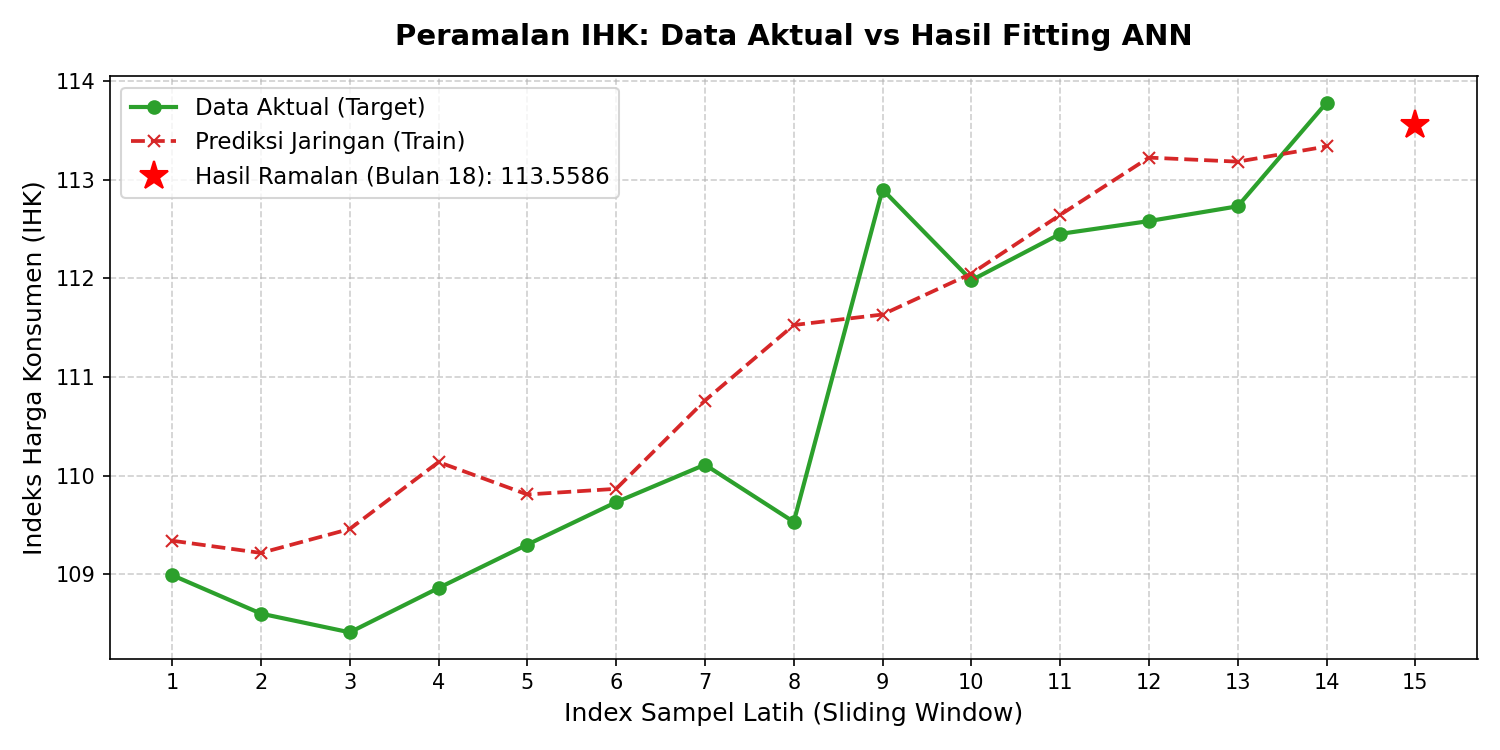
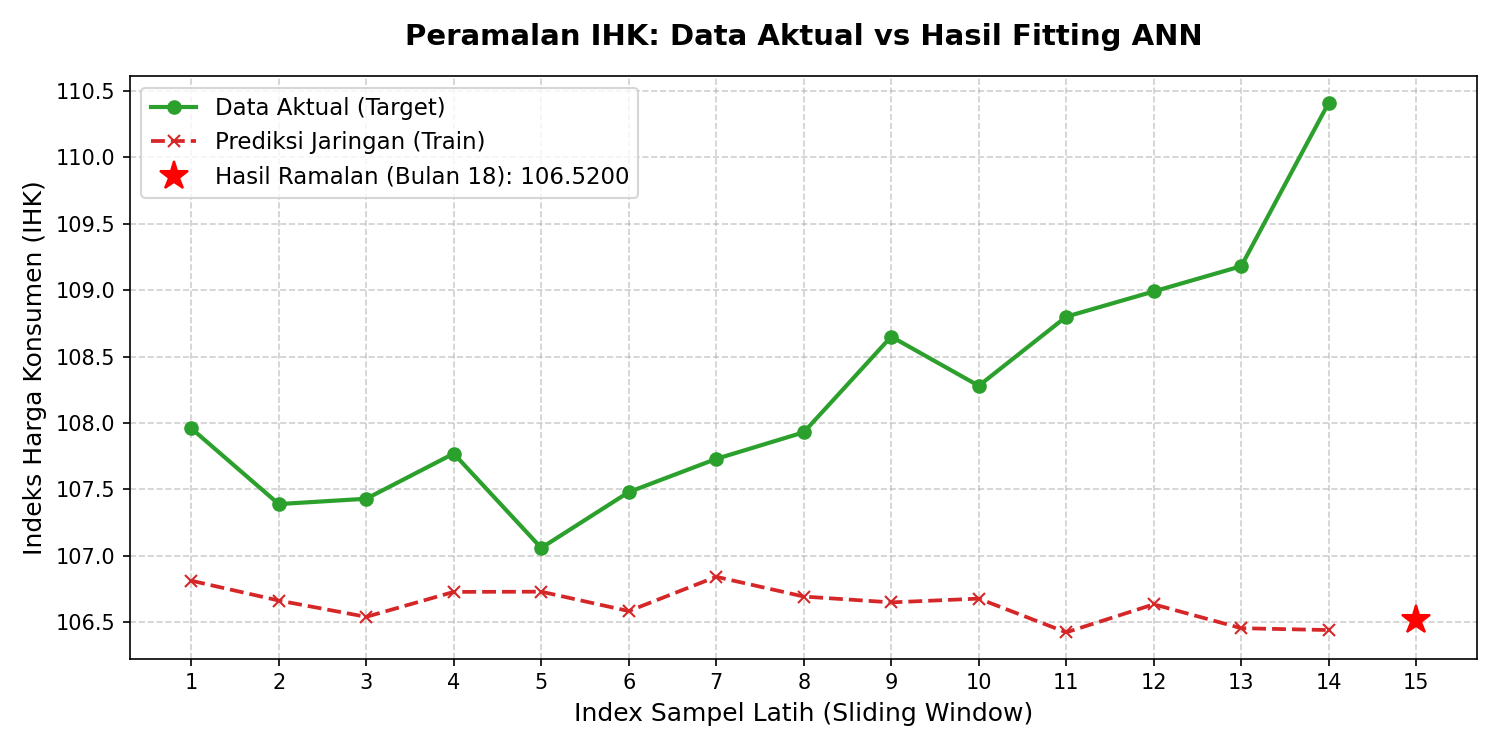
update readme

diff --git a/generate_results.py b/generate_results.py
@@ -7,7 +7,7 @@ import os
 async def main():
     url = "http://localhost:8000/api/forecast"
     payload = {
-        "kota": "Kota Banda Aceh",
+        "kota": "Kota Metro",
         "lag": 3,
         "epochs": 150,
         "batch_size": 2,

diff --git a/result.md b/result.md
@@ -1,6 +1,6 @@
 # Hasil Pelatihan dan Peramalan Artificial Neural Network (ANN)
 
-Berikut adalah ringkasan hasil pengujian model Jaringan Saraf Tiruan (ANN) yang dilatih menggunakan data historis 17 bulan untuk **KOTA BANDA ACEH**.
+Berikut adalah ringkasan hasil pengujian model Jaringan Saraf Tiruan (ANN) yang dilatih menggunakan data historis 17 bulan untuk **KOTA METRO**.
 
 ---
 
@@ -8,8 +8,8 @@ Berikut adalah ringkasan hasil pengujian model Jaringan Saraf Tiruan (ANN) yang 
 
 | Variabel | Nilai Ramalan | Nilai Terakhir (Mei 2026) | Trend / Keterangan |
 | :--- | :---: | :---: | :--- |
-| **Inflasi** | `0.1410%` | `0.9300%` | Turun |
-| **IHK** | `113.5586` | `113.7800` | Turun |
+| **Inflasi** | `-0.7738%` | `1.1300%` | Turun |
+| **IHK** | `106.5200` | `110.4100` | Turun |
 
 ---
 
@@ -19,24 +19,24 @@ Tabel di bawah ini menampilkan 17 data masuk (input historis) yang digunakan unt
 
 | Bulan Ke- | Periode | Data Masuk: Inflasi | Data Masuk: IHK | Status Data |
 | :---: | :---: | :---: | :---: | :--- |
-| 1 | Jan 2025 | `-0.4700%` | `105.9100` | Historis (YoY) |
-| 2 | Feb 2025 | `-0.4900%` | `105.3900` | Historis (YoY) |
-| 3 | Mar 2025 | `1.5500%` | `107.0200` | Historis (YoY) |
-| 4 | Apr 2025 | `1.8400%` | `108.9900` | Historis (YoY) |
-| 5 | Mei 2025 | `-0.3600%` | `108.6000` | Historis (YoY) |
-| 6 | Jun 2025 | `-0.1700%` | `108.4100` | Historis (YoY) |
-| 7 | Jul 2025 | `0.4200%` | `108.8600` | Historis (YoY) |
-| 8 | Ags 2025 | `0.4000%` | `109.3000` | Historis (YoY) |
-| 9 | Sep 2025 | `0.3900%` | `109.7300` | Historis (YoY) |
-| 10 | Okt 2025 | `0.3500%` | `110.1100` | Historis (YoY) |
-| 11 | Nov 2025 | `-0.5300%` | `109.5300` | Historis (YoY) |
-| 12 | Des 2025 | `3.0800%` | `112.9000` | Historis (YoY) |
-| 13 | Jan 2026 | `-0.8100%` | `111.9800` | Historis (Berjalan) |
-| 14 | Feb 2026 | `0.4200%` | `112.4500` | Historis (Berjalan) |
-| 15 | Mar 2026 | `0.1200%` | `112.5800` | Historis (Berjalan) |
-| 16 | Apr 2026 | `0.1300%` | `112.7300` | Historis (Berjalan) |
-| 17 | Mei 2026 | `0.9300%` | `113.7800` | Historis (Berjalan) |
-| 18 | **Jun 2026** | **`0.1410%`** | **`113.5586`** | **Hasil Ramalan (ANN)** |
+| 1 | Jan 2025 | `-0.2800%` | `106.1300` | Historis (YoY) |
+| 2 | Feb 2025 | `-0.8900%` | `105.1900` | Historis (YoY) |
+| 3 | Mar 2025 | `1.9600%` | `107.2500` | Historis (YoY) |
+| 4 | Apr 2025 | `0.6600%` | `107.9600` | Historis (YoY) |
+| 5 | Mei 2025 | `-0.5300%` | `107.3900` | Historis (YoY) |
+| 6 | Jun 2025 | `0.0400%` | `107.4300` | Historis (YoY) |
+| 7 | Jul 2025 | `0.3200%` | `107.7700` | Historis (YoY) |
+| 8 | Ags 2025 | `-0.6600%` | `107.0600` | Historis (YoY) |
+| 9 | Sep 2025 | `0.3900%` | `107.4800` | Historis (YoY) |
+| 10 | Okt 2025 | `0.2300%` | `107.7300` | Historis (YoY) |
+| 11 | Nov 2025 | `0.1900%` | `107.9300` | Historis (YoY) |
+| 12 | Des 2025 | `0.6700%` | `108.6500` | Historis (YoY) |
+| 13 | Jan 2026 | `-0.3400%` | `108.2800` | Historis (Berjalan) |
+| 14 | Feb 2026 | `0.4800%` | `108.8000` | Historis (Berjalan) |
+| 15 | Mar 2026 | `0.1700%` | `108.9900` | Historis (Berjalan) |
+| 16 | Apr 2026 | `0.1700%` | `109.1800` | Historis (Berjalan) |
+| 17 | Mei 2026 | `1.1300%` | `110.4100` | Historis (Berjalan) |
+| 18 | **Jun 2026** | **`-0.7738%`** | **`106.5200`** | **Hasil Ramalan (ANN)** |
 
 
 ---
@@ -47,24 +47,24 @@ Tabel di bawah ini menampilkan data masuk historis (17 bulan) dan hasil peramala
 
 | Bulan Ke- | Periode | Makanan & Tembakau | Pakaian & Alas Kaki | Perumahan & Energi | Perlengkapan RT | Kesehatan |
 | :---: | :---: | :---: | :---: | :---: | :---: | :---: |
-| 1 | Jan 2025 | `2.7800%` | `0.1300%` | `-7.9500%` | `0.1700%` | `0.0000%` |
-| 2 | Feb 2025 | `-0.4700%` | `-0.9400%` | `-3.6600%` | `0.1600%` | `0.3000%` |
-| 3 | Mar 2025 | `0.6500%` | `0.6300%` | `7.0900%` | `-0.5000%` | `0.1600%` |
-| 4 | Apr 2025 | `1.7600%` | `0.7500%` | `5.3300%` | `-0.2000%` | `0.3900%` |
-| 5 | Mei 2025 | `-1.1200%` | `-0.1300%` | `0.1900%` | `-0.2100%` | `0.0000%` |
-| 6 | Jun 2025 | `-0.6000%` | `0.1300%` | `-0.0100%` | `0.4500%` | `-0.0200%` |
-| 7 | Jul 2025 | `1.2200%` | `3.2500%` | `0.0000%` | `-0.0300%` | `0.4200%` |
-| 8 | Ags 2025 | `1.5400%` | `-0.5700%` | `0.0000%` | `0.1000%` | `1.0100%` |
-| 9 | Sep 2025 | `0.8500%` | `-0.8700%` | `-0.0200%` | `0.0100%` | `0.9100%` |
-| 10 | Okt 2025 | `-0.4700%` | `0.1100%` | `0.0000%` | `0.1700%` | `0.0000%` |
-| 11 | Nov 2025 | `-1.6400%` | `-2.4100%` | `0.0000%` | `-0.3500%` | `0.7100%` |
-| 12 | Des 2025 | `7.0200%` | `-0.1000%` | `1.9500%` | `0.0100%` | `-0.2400%` |
-| 13 | Jan 2026 | `-2.8600%` | `-0.0200%` | `-1.7500%` | `0.0600%` | `0.4500%` |
-| 14 | Feb 2026 | `0.8600%` | `0.3800%` | `-0.4000%` | `-0.0100%` | `-0.0300%` |
-| 15 | Mar 2026 | `0.1600%` | `-2.9000%` | `0.0200%` | `-0.2000%` | `-0.0200%` |
-| 16 | Apr 2026 | `-0.6800%` | `-0.0500%` | `0.5400%` | `1.6300%` | `-0.0600%` |
-| 17 | Mei 2026 | `1.8900%` | `0.0400%` | `1.0700%` | `0.3100%` | `0.1600%` |
-| 18 | **Jun 2026** | **`-0.2949%`** | **`0.4674%`** | **`0.1232%`** | **`0.0017%`** | **`0.5690%`** |
+| 1 | Jan 2025 | `3.5500%` | `0.5000%` | `-15.6400%` | `0.1400%` | `0.2900%` |
+| 2 | Feb 2025 | `-1.4100%` | `-0.0700%` | `-5.9200%` | `-0.3100%` | `0.1100%` |
+| 3 | Mar 2025 | `1.6500%` | `-0.2900%` | `16.4100%` | `0.3600%` | `-0.0200%` |
+| 4 | Apr 2025 | `-1.1500%` | `0.0300%` | `9.4800%` | `-0.5600%` | `0.2000%` |
+| 5 | Mei 2025 | `-1.5900%` | `-0.2000%` | `-0.0500%` | `-0.2700%` | `0.3900%` |
+| 6 | Jun 2025 | `-0.0500%` | `0.0100%` | `0.0000%` | `0.2100%` | `0.0000%` |
+| 7 | Jul 2025 | `0.6700%` | `-0.1800%` | `0.0200%` | `-0.5100%` | `0.0700%` |
+| 8 | Ags 2025 | `-0.8200%` | `0.0200%` | `0.0000%` | `-0.4000%` | `-0.2000%` |
+| 9 | Sep 2025 | `1.3500%` | `0.0100%` | `0.0500%` | `-0.6600%` | `-0.2700%` |
+| 10 | Okt 2025 | `-0.0200%` | `-0.0100%` | `0.0200%` | `0.0200%` | `0.3000%` |
+| 11 | Nov 2025 | `0.3300%` | `0.0000%` | `0.0200%` | `-0.5500%` | `0.2100%` |
+| 12 | Des 2025 | `1.8500%` | `0.0000%` | `0.0600%` | `-0.1300%` | `0.4600%` |
+| 13 | Jan 2026 | `-1.6200%` | `-0.1300%` | `0.1600%` | `0.5500%` | `0.0000%` |
+| 14 | Feb 2026 | `1.0700%` | `-0.0200%` | `-0.0100%` | `0.0500%` | `0.0300%` |
+| 15 | Mar 2026 | `0.6800%` | `-0.0300%` | `0.0300%` | `-0.3400%` | `-0.1300%` |
+| 16 | Apr 2026 | `-0.0100%` | `0.6600%` | `0.2100%` | `0.0000%` | `0.0300%` |
+| 17 | Mei 2026 | `2.1900%` | `0.0300%` | `0.0200%` | `1.4700%` | `0.0000%` |
+| 18 | **Jun 2026** | **`-1.8295%`** | **`-0.4338%`** | **`-0.9990%`** | **`-1.3466%`** | **`-0.3291%`** |
 
 
 ---
@@ -75,24 +75,24 @@ Tabel di bawah ini menampilkan data masuk historis (17 bulan) dan hasil peramala
 
 | Bulan Ke- | Periode | Info & Keuangan | Transportasi | Rekreasi & Budaya | Pendidikan | Restoran | Perawatan & Jasa |
 | :---: | :---: | :---: | :---: | :---: | :---: | :---: | :---: |
-| 1 | Jan 2025 | `-0.0200%` | `1.1100%` | `-0.9900%` | `0.0000%` | `0.1300%` | `0.6200%` |
-| 2 | Feb 2025 | `0.0000%` | `1.3700%` | `0.0000%` | `0.0000%` | `0.0300%` | `2.0700%` |
-| 3 | Mar 2025 | `0.0000%` | `0.1200%` | `-0.0200%` | `0.0000%` | `0.0300%` | `1.9800%` |
-| 4 | Apr 2025 | `-0.2800%` | `0.2600%` | `0.3700%` | `0.0000%` | `0.0000%` | `4.8300%` |
-| 5 | Mei 2025 | `0.3700%` | `0.1900%` | `-0.0100%` | `0.0000%` | `0.0000%` | `-1.2600%` |
-| 6 | Jun 2025 | `-0.3300%` | `-0.3600%` | `0.0000%` | `0.0000%` | `0.0000%` | `0.6600%` |
-| 7 | Jul 2025 | `0.0000%` | `0.0500%` | `0.0000%` | `-2.0100%` | `0.1500%` | `-0.1700%` |
-| 8 | Ags 2025 | `0.0000%` | `-0.3400%` | `0.0100%` | `0.0900%` | `0.1200%` | `-0.2200%` |
-| 9 | Sep 2025 | `0.0000%` | `-0.0100%` | `0.0000%` | `0.0600%` | `0.1200%` | `2.2800%` |
-| 10 | Okt 2025 | `0.0500%` | `0.6600%` | `0.0000%` | `0.0000%` | `0.0000%` | `5.6800%` |
-| 11 | Nov 2025 | `-0.0200%` | `0.3600%` | `0.0400%` | `0.0000%` | `0.1200%` | `0.3400%` |
-| 12 | Des 2025 | `0.0000%` | `0.0700%` | `0.0000%` | `0.0000%` | `4.3700%` | `2.7400%` |
-| 13 | Jan 2026 | `0.1000%` | `-0.1400%` | `0.0000%` | `0.0000%` | `0.9600%` | `3.8100%` |
-| 14 | Feb 2026 | `0.4100%` | `-0.0400%` | `0.0000%` | `0.0000%` | `0.1500%` | `2.5700%` |
-| 15 | Mar 2026 | `0.6700%` | `0.8500%` | `0.0000%` | `0.0000%` | `1.7100%` | `-1.2900%` |
-| 16 | Apr 2026 | `1.8300%` | `1.9400%` | `1.6400%` | `0.0000%` | `0.4800%` | `-2.4300%` |
-| 17 | Mei 2026 | `0.6400%` | `0.0200%` | `0.0000%` | `0.0000%` | `1.5300%` | `-0.4400%` |
-| 18 | **Jun 2026** | **`2.9473%`** | **`0.0167%`** | **`0.1955%`** | **`-0.2336%`** | **`0.6839%`** | **`4.7027%`** |
+| 1 | Jan 2025 | `-0.1800%` | `0.3900%` | `0.4500%` | `0.1500%` | `0.3500%` | `0.1000%` |
+| 2 | Feb 2025 | `-0.5700%` | `0.3200%` | `0.0000%` | `0.0000%` | `0.0000%` | `0.6300%` |
+| 3 | Mar 2025 | `0.0000%` | `0.3000%` | `0.0000%` | `0.0000%` | `0.2700%` | `1.6100%` |
+| 4 | Apr 2025 | `-0.2200%` | `0.2300%` | `0.3100%` | `0.0000%` | `0.1900%` | `2.2900%` |
+| 5 | Mei 2025 | `-0.0300%` | `-0.3200%` | `-0.0400%` | `0.0000%` | `0.0000%` | `0.2800%` |
+| 6 | Jun 2025 | `-0.0500%` | `-0.0600%` | `0.0500%` | `0.0000%` | `0.0000%` | `0.7900%` |
+| 7 | Jul 2025 | `0.2100%` | `0.6500%` | `-0.3900%` | `0.4700%` | `0.0000%` | `0.2800%` |
+| 8 | Ags 2025 | `0.0200%` | `-0.1400%` | `0.0000%` | `-6.8700%` | `0.0700%` | `0.9500%` |
+| 9 | Sep 2025 | `-0.0600%` | `0.0300%` | `0.0000%` | `0.0000%` | `0.0000%` | `0.4300%` |
+| 10 | Okt 2025 | `-0.0300%` | `0.0000%` | `0.0000%` | `0.0000%` | `0.0000%` | `3.1400%` |
+| 11 | Nov 2025 | `0.0500%` | `0.0100%` | `0.0000%` | `0.0000%` | `0.0000%` | `1.3100%` |
+| 12 | Des 2025 | `0.0200%` | `0.4100%` | `0.0000%` | `0.0000%` | `0.0000%` | `0.4900%` |
+| 13 | Jan 2026 | `-0.3400%` | `0.1900%` | `0.0000%` | `0.0000%` | `0.0000%` | `1.4800%` |
+| 14 | Feb 2026 | `0.0500%` | `-0.2600%` | `-1.6000%` | `0.0000%` | `0.0000%` | `2.8800%` |
+| 15 | Mar 2026 | `0.3100%` | `0.7000%` | `0.0000%` | `0.0000%` | `0.0000%` | `-1.5000%` |
+| 16 | Apr 2026 | `0.3700%` | `0.1800%` | `0.4700%` | `0.0000%` | `1.1200%` | `-0.7100%` |
+| 17 | Mei 2026 | `5.2400%` | `0.3200%` | `0.0000%` | `0.0000%` | `0.7700%` | `-0.5500%` |
+| 18 | **Jun 2026** | **`-7.3282%`** | **`-0.3761%`** | **`-2.0603%`** | **`-8.2349%`** | **`-0.1937%`** | **`-1.6463%`** |
 
 
 ---
@@ -119,18 +119,18 @@ Grafik di bawah ini membandingkan data aktual historis dengan hasil fitting (pre
 
 ## 7. Hasil Ringkasan Peramalan Komoditas
 
-Berikut adalah estimasi nilai inflasi untuk 11 kelompok komoditas utama di **KOTA BANDA ACEH** pada bulan ke-18 beserta tingkat MSE loss-nya:
+Berikut adalah estimasi nilai inflasi untuk 11 kelompok komoditas utama di **KOTA METRO** pada bulan ke-18 beserta tingkat MSE loss-nya:
 
 | Kelompok Komoditas | Nilai Ramalan (%) | Final Training Loss (MSE) |
 | :--- | :---: | :---: |
-| Makanan, Minuman dan Tembakau | `-0.2949%` | `0.027368` |
-| Pakaian dan Alas Kaki | `0.4674%` | `0.048991` |
-| Perumahan, Air, Listrik dan Bahan Bakar Rumah Tangga | `0.1232%` | `0.011980` |
-| Perlengkapan, Peralatan dan Pemeliharaan Rutin Rumah Tangga | `0.0017%` | `0.049269` |
-| Kesehatan | `0.5690%` | `0.038873` |
-| Informasi, Komunikasi dan Jasa Keuangan | `2.9473%` | `0.034496` |
-| Transportasi | `0.0167%` | `0.024450` |
-| Rekreasi, Olahraga dan Budaya | `0.1955%` | `0.065174` |
-| Pendidikan | `-0.2336%` | `0.063183` |
-| Penyediaan Makanan dan Minuman / Restoran | `0.6839%` | `0.065598` |
-| Perawatan Pribadi dan Jasa Lainnya | `4.7027%` | `0.015695` |
+| Makanan, Minuman dan Tembakau | `-1.8295%` | `0.411140` |
+| Pakaian dan Alas Kaki | `-0.4338%` | `0.145633` |
+| Perumahan, Air, Listrik dan Bahan Bakar Rumah Tangga | `-0.9990%` | `0.123414` |
+| Perlengkapan, Peralatan dan Pemeliharaan Rutin Rumah Tangga | `-1.3466%` | `0.231420` |
+| Kesehatan | `-0.3291%` | `0.426532` |
+| Informasi, Komunikasi dan Jasa Keuangan | `-7.3282%` | `0.123939` |
+| Transportasi | `-0.3761%` | `0.419665` |
+| Rekreasi, Olahraga dan Budaya | `-2.0603%` | `0.846762` |
+| Pendidikan | `-8.2349%` | `1.124812` |
+| Penyediaan Makanan dan Minuman / Restoran | `-0.1937%` | `0.154430` |
+| Perawatan Pribadi dan Jasa Lainnya | `-1.6463%` | `0.453187` |
